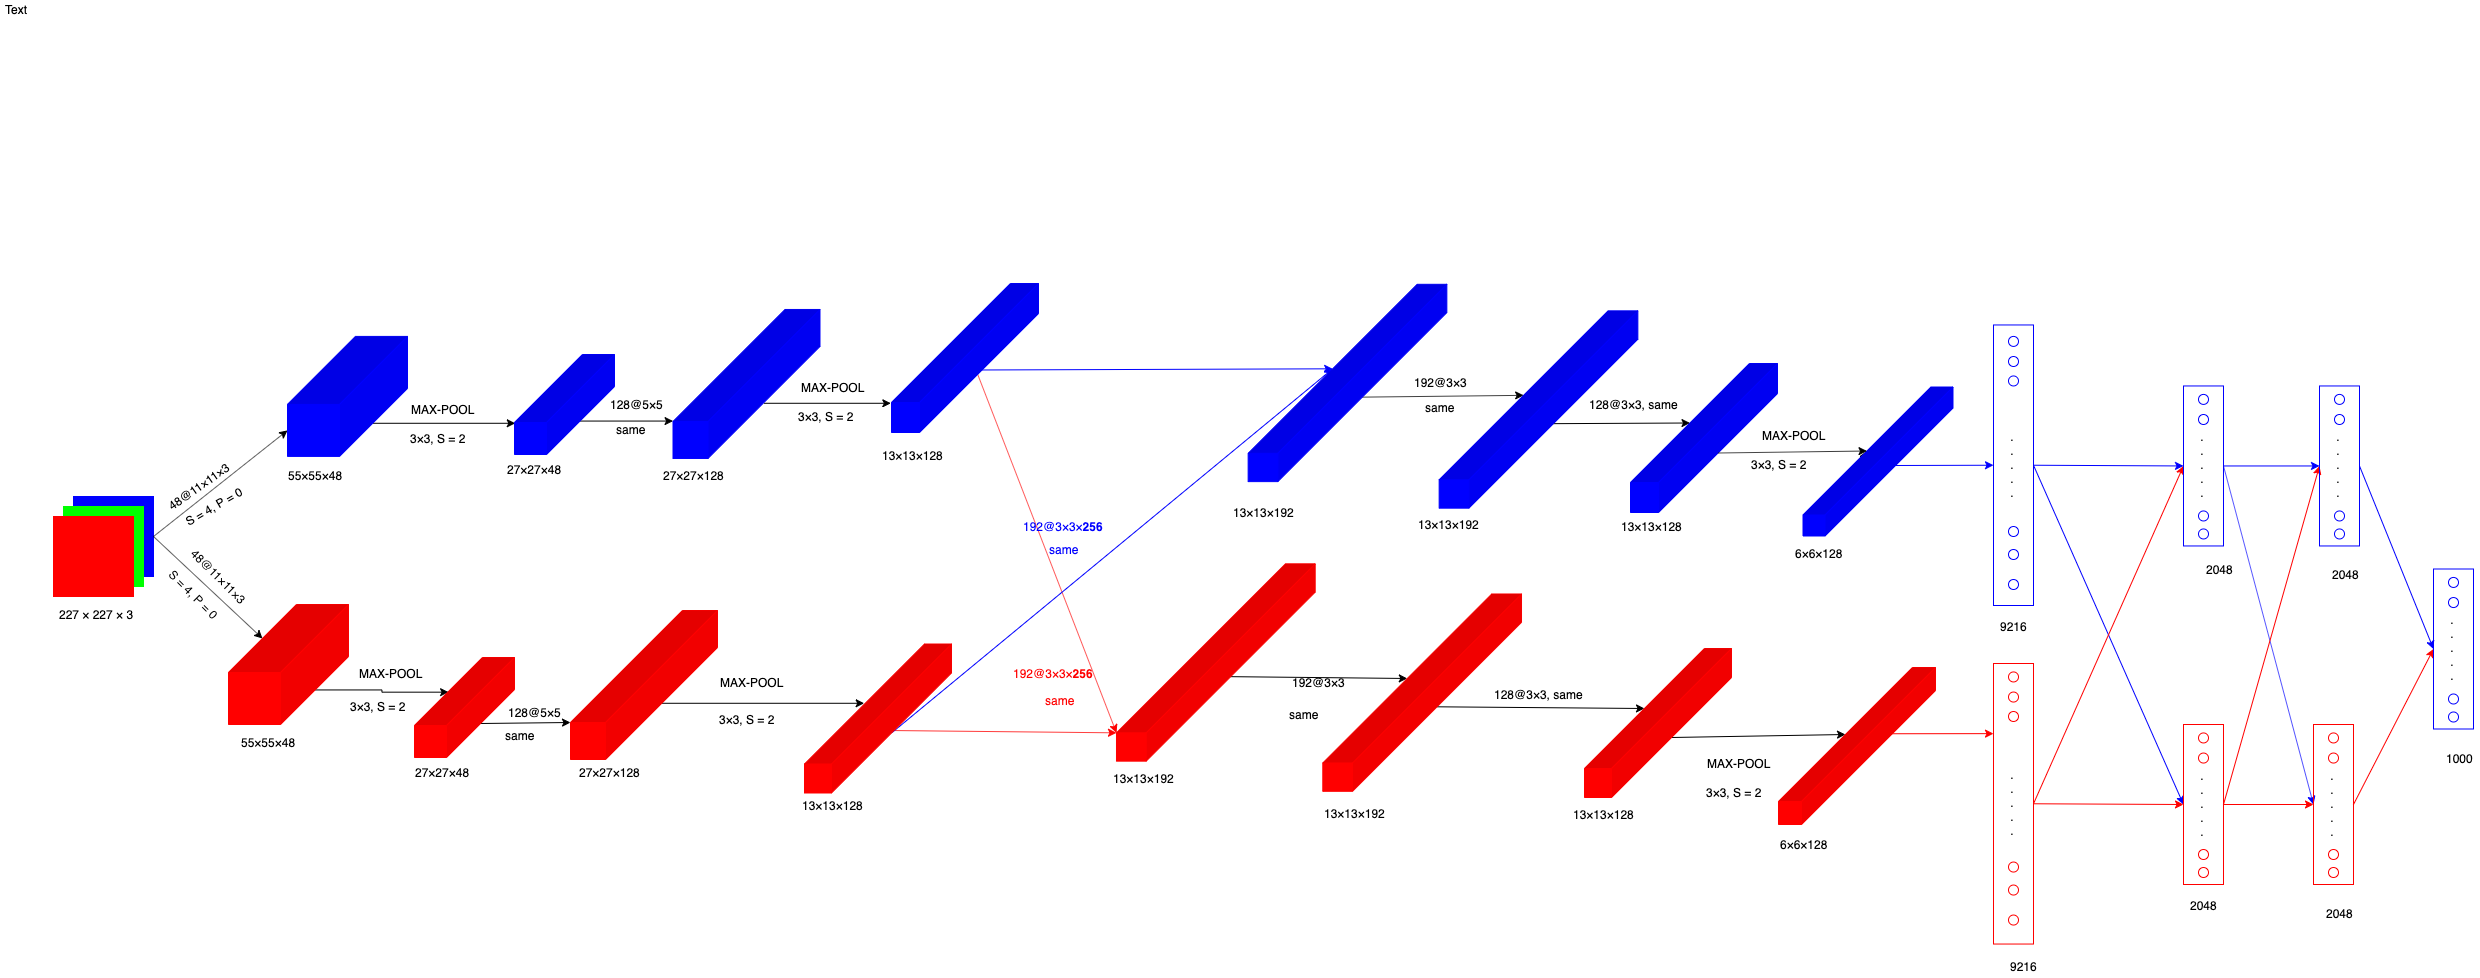
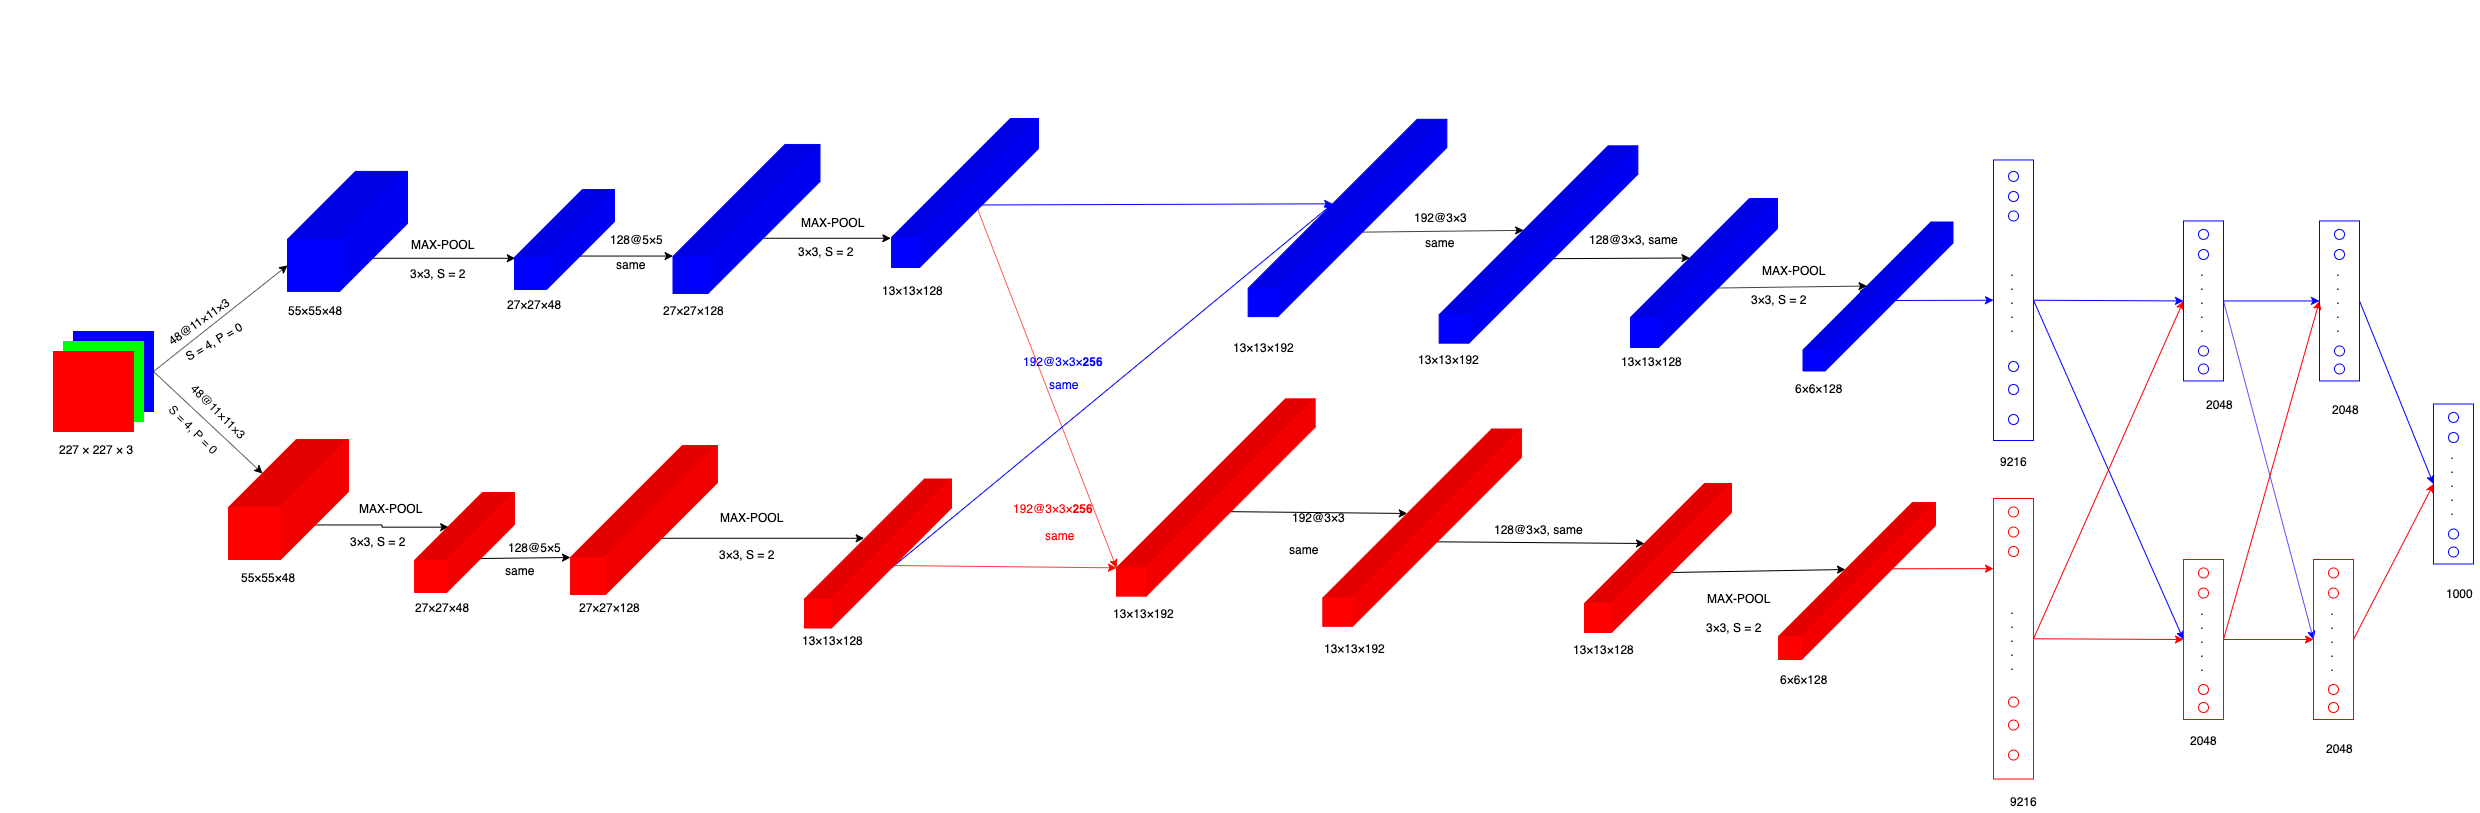
update AlexNet

diff --git a/posts/20210204-AlexNet-some-details.md b/posts/20210204-AlexNet-some-details.md
@@ -1,0 +1,117 @@
+# AlexNet 的一些细节及拓展学习
+
+> 2021.02.04
+>
+> PS：AlexNet 是我看过第一篇文献，它对我而言意义非凡。
+
+今天又回顾了一下 AlexNet 的论文 ”ImageNet Classification with Deep Convolutional Neural Networks“，把以前的一些不明白的东西搞清楚了。
+
+如下是今天绘制的 AlexNet 网络结构图（两块 GPU）。
+
+![](./20210204/AlexNet.png)
+
+一个需要注意的地方是卷积层 CONV3 ⚠。
+
+在 CONV3 卷积时，卷积核的通道数是 256，而两块 GPU 中 CONV2 输出的特征图的通道为 128。
+
+因此需要将两块 GPU 中的两组 128@13×13 特征图合并（concat）为 256@13×13 后，才能进行卷积。
+
+> 通道分离、合并。
+
+后来的可分离卷积（分组卷积）的思想。
+
+如下是我是单 GPU 中 AlexNet 结构图，图片来源：<https://neurohive.io/en/popular-networks/alexnet-imagenet-classification-with-deep-convolutional-neural-networks/>
+
+![](./20210204/AlexNet-1.png)
+
+## 论文中的 AlexNet 结构
+
+输入图片 227×227，通道数 3。
+
+**卷积层 CONV 1（96@27×27）**
+
+- 卷积：使用两组，每组各 48 个（两组卷积核共 96 个），**3 通道**的大小为 11×11 的卷积核对大小为 227×227的输入进行卷积，步长 S = 4。卷积得到两组 48@55×55（共 96@55×55）的特征图。
+
+  - > [(227 - 11) / 4] + 1 = 55.
+
+- ReLU：使用 ReLU 激活函数。
+
+- Max Pooling：使用 Overlapping Pooling。3×3，步长 S = 2，池化后得到两组 48@27×27（共 96@27×27）的特征图。
+
+- LRN：$k = 2, n = 5,\alpha = 10^{-4}, \beta = 0.75$。
+
+- 参数（仅卷积操作）：单个 GPU 上的权重参数为 11×11×3，偏置参数 1 个，共 48 个卷积核。所有在两块 GPU 上的参数个数为 (11×11×3 + 1)×48×2 = 34944 个。
+
+**卷积层 CONV2（256@13×13）**
+
+- 卷积：使用两组，每组各 128 个（两组卷积核共 256 个），**48 通道**大小为 5×5 的卷积核对输入的 27×27 特征图进行 same 卷积（P=2，S=1）。卷积得到两组 128@27×27（共 256@27×27）的特征图。
+- ReLU
+- Max Pooling：3×3，S=2。池化后得到两组 128@13×13（共 256@13×13）的特征图。
+- LRN
+- 参数：(5×5×48 + 1)×128×2 = 307456 个。
+
+**卷积层 CONV3（384@13×13）** ⚠
+
+- 卷积：使用两组，每组各 192 个（两组卷积核共 384 个），**256 通道**的大小为 3×3 的卷积核对大小为 13×13 的输入进行 same 卷积。**因为每组的特征图通道数为 128，因此先将两个 GPU 上的特征图通道数合并 128+128=256，与卷积核的通道相同，再进行卷积操作。**卷积得到两组 192@13×13 （共 384@13×13）的特征图。
+- ReLU
+- 参数：(3×3×256 + 1)×192×2 = 885120 个。
+
+**卷积层 CONV4（384@13×13）**
+
+- 卷积：使用两组，每组各 192 个（两组卷积核共 384 个），**192 通道**的大小为 3×3 的卷积核对大小为 13×13 的输入进行 same 卷积。卷积得到两组 192@13×13 （共 384@13×13）的特征图。
+- ReLU
+- 参数：(3×3×192 + 1)×192×2 = 663936 个。
+
+**卷积层 CONV5（256@6×6）**
+
+- 卷积：使用两组，每组各 128 个（两组共 256 个）卷积核，**192 通道**的大小为 3×3 的卷积核对输入为 13×13 的特征图进行 same 卷积，得到两组 128@13×13 （共 256@13×13）的特征图。
+- ReLU
+- Max Pooling：3×3，S=2，池化后得到两组 128@6×6（共 256@6×6）的特征图。
+- 参数：(3×3×192 + 1)×128×2 = 442624 个。
+
+**全连接层 FC6（4096）**
+
+- 全连接：使用两组 2048 个神经元，与前层输出的两组 128@6×6 进行全连接。
+- ReLU
+- Dropout
+- 参数：前一层的神经元个数为 6×6×256=9216，本层神经元个数为 2048+2048=4096。所以权重参数个数为 6×6×256×4096，偏置个数为 1×4096。得到此全连接层的参数为 (6×6×256 + 1)×4096 = 37752832。
+
+**全连接层 FC7（4096）**
+
+- 全连接：使用两组 2048 个神经元，与前层输出的两组 2048 进行全连接。
+- ReLU
+- Dropout
+- 参数：(4096 + 1)×4096 = 16781312。
+
+**全连接层 FC8（1000）**
+
+- 全连接：使用 1000 个神经元，与前层输出的两组 2048 进行全连接。
+- Softmax：通过 Softmax 得到分类结果。
+- 参数：(4096 + 1)×1000 = 4097000。
+
+---
+
+## 总结
+
+![](./20201024/1.png)
+
+通道数：
+
+- **3** --CONV1--> **96** -CONV2-> **256** --CONV3--> **384** --CONV4--> **384** --CONV5--> **256**。
+
+参数：
+
+- 使用两块 GPU 总参数：34944 + 307456 + 885120 + 663936 + 442624 + 37752832 + 4097000 = 44183912 个。
+
+- 如果使用单块 GPU，则参数个数为 ≈ 1.38 亿个参数。
+
+
+
+---
+
+AlexNet 这篇论文还有不少东西我需要去拓展学习：
+
+- LRN：从 LRN 出发，了解整个神经网络的 Normalization 机制（LN、BN...）。
+- 数据增强技术
+- 工程上，使用多块 GPU 跑模型，怎么做到的？代码怎么写？
+

diff --git a/index.md b/index.md
@@ -7,7 +7,9 @@
 
 ## 近期工作
 
-- [2021.02.01 课题组组会](./posts/20210201-group-meeting)
+- [2021.02.04 #AlexNet# AlexNet 的一些细节及拓展学习](./posts/20210204-AlexNet-some-details)
+
+- [2021.02.01 #组会# 课题组组会](./posts/20210201-group-meeting)
 
 - [📚 2021.01.30 #论文阅读#PyTorch: An Imperative Style, High-Performance Deep Learning Library](./posts/20210130-pytorch-paper-reading-1)
 
